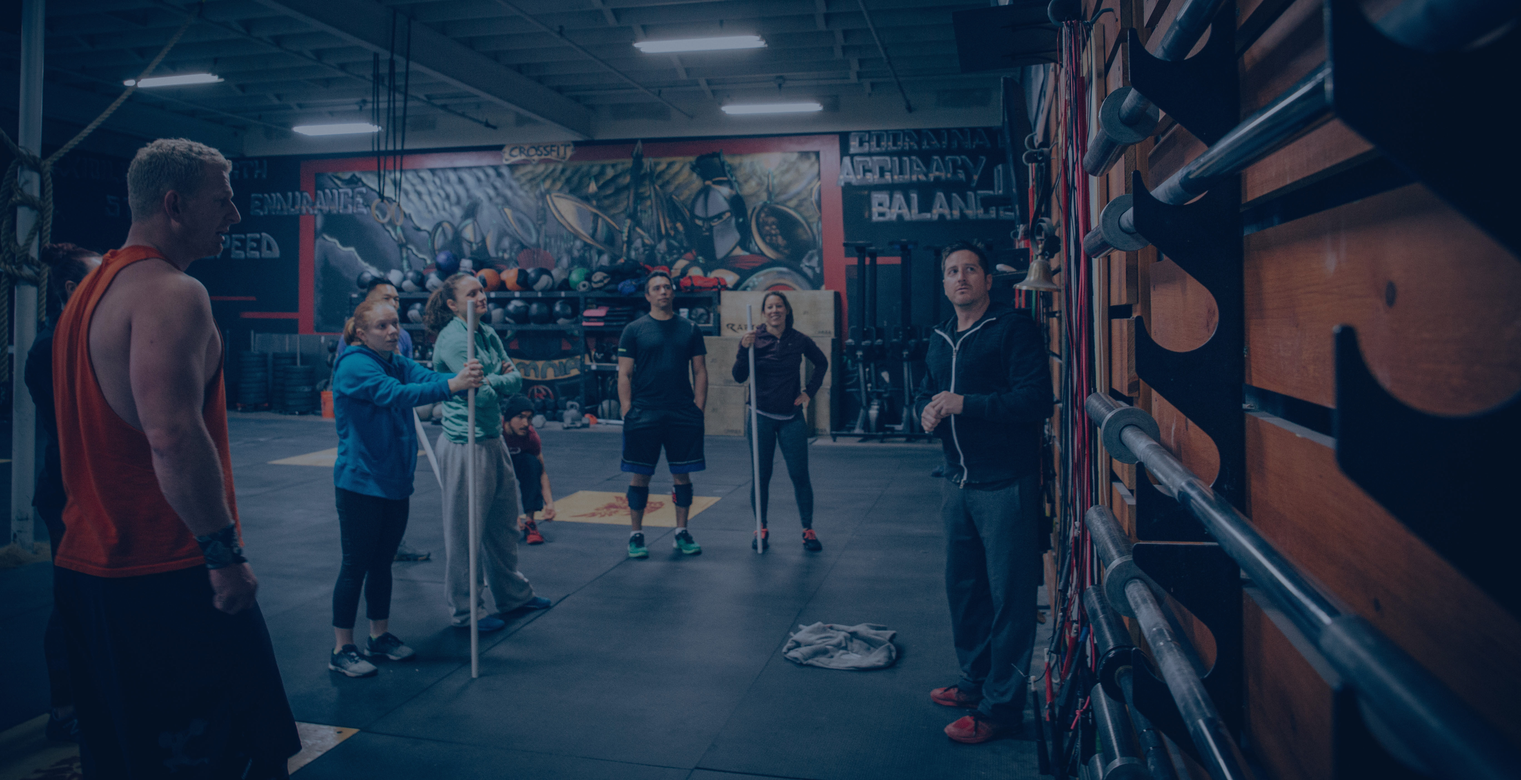
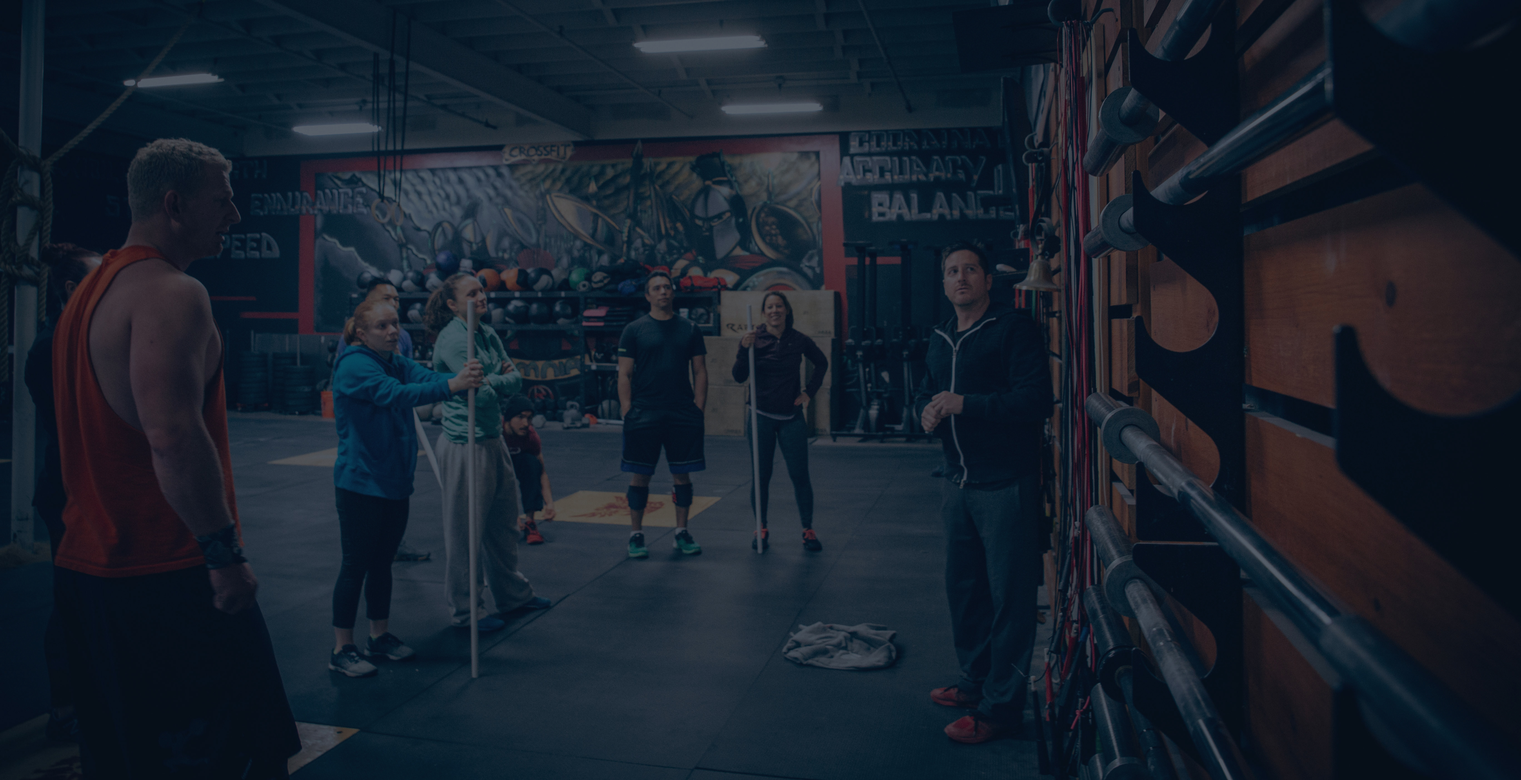
Changest to image overlay

diff --git a/index.html b/index.html
@@ -86,7 +86,7 @@
     <div class="container">
         <div class="row">
             <div class="col-md-6">
-                <img src="img/IMG_0424.jpg" class="img-responsive">
+                <img src="img/IMG_0449.jpg" class="img-responsive">
             </div>
             <div class="col-md-6 section-text">
                 <div class="title title-left">

diff --git a/css/style.css b/css/style.css
@@ -84,6 +84,10 @@ h1,h2,h3,h4,h5,h6{
   background-size: cover;
   background-attachment: fixed;
 }
+.page-header.header-archive {
+  background: url(../img/IMG_0431.jpg) no-repeat center fixed;
+  background-size: cover;
+}
 
 
 /* Nav bar*/
